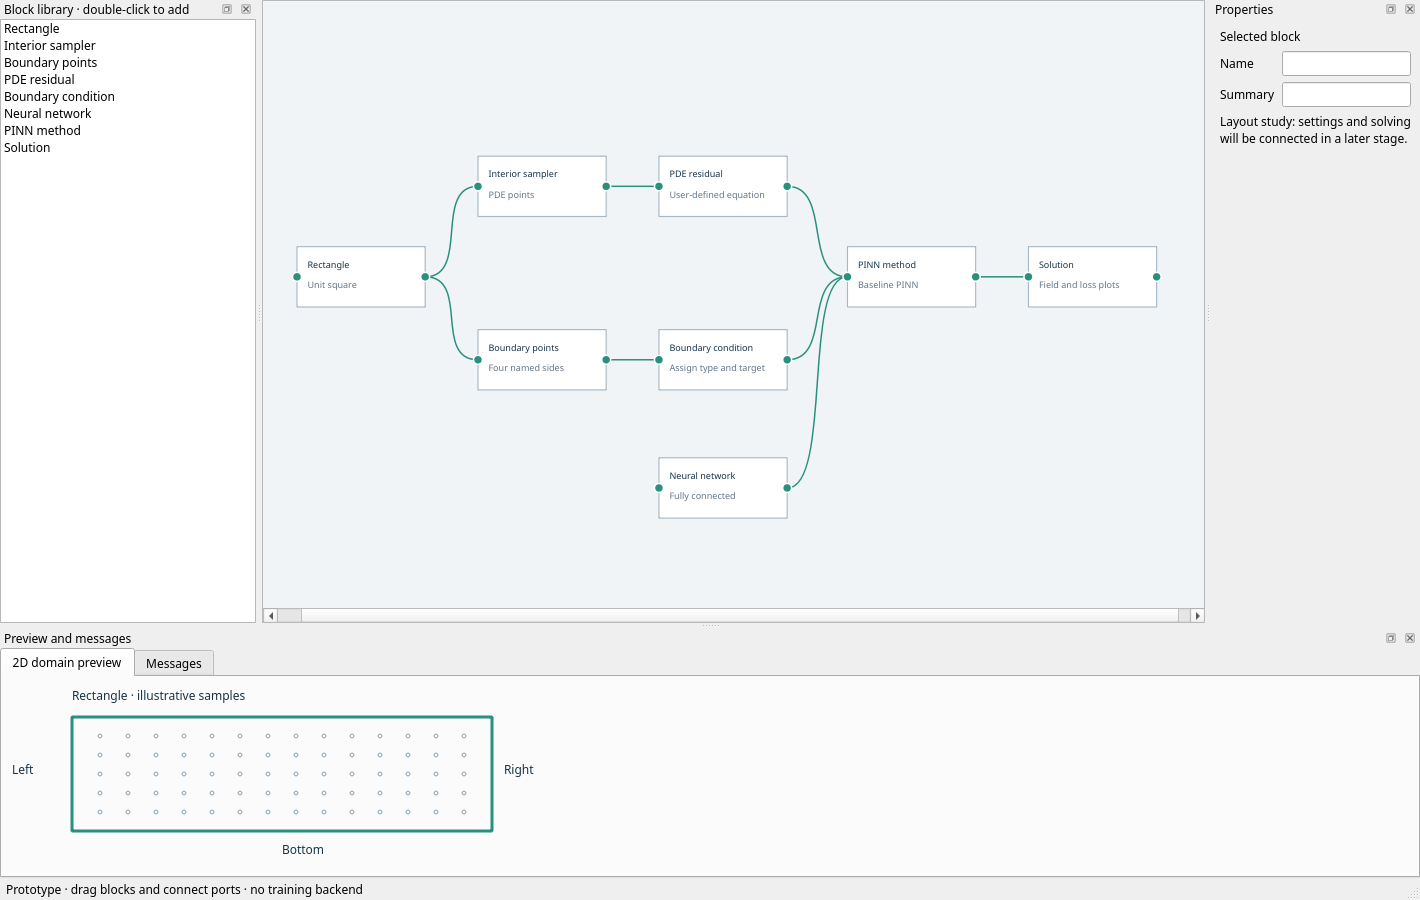
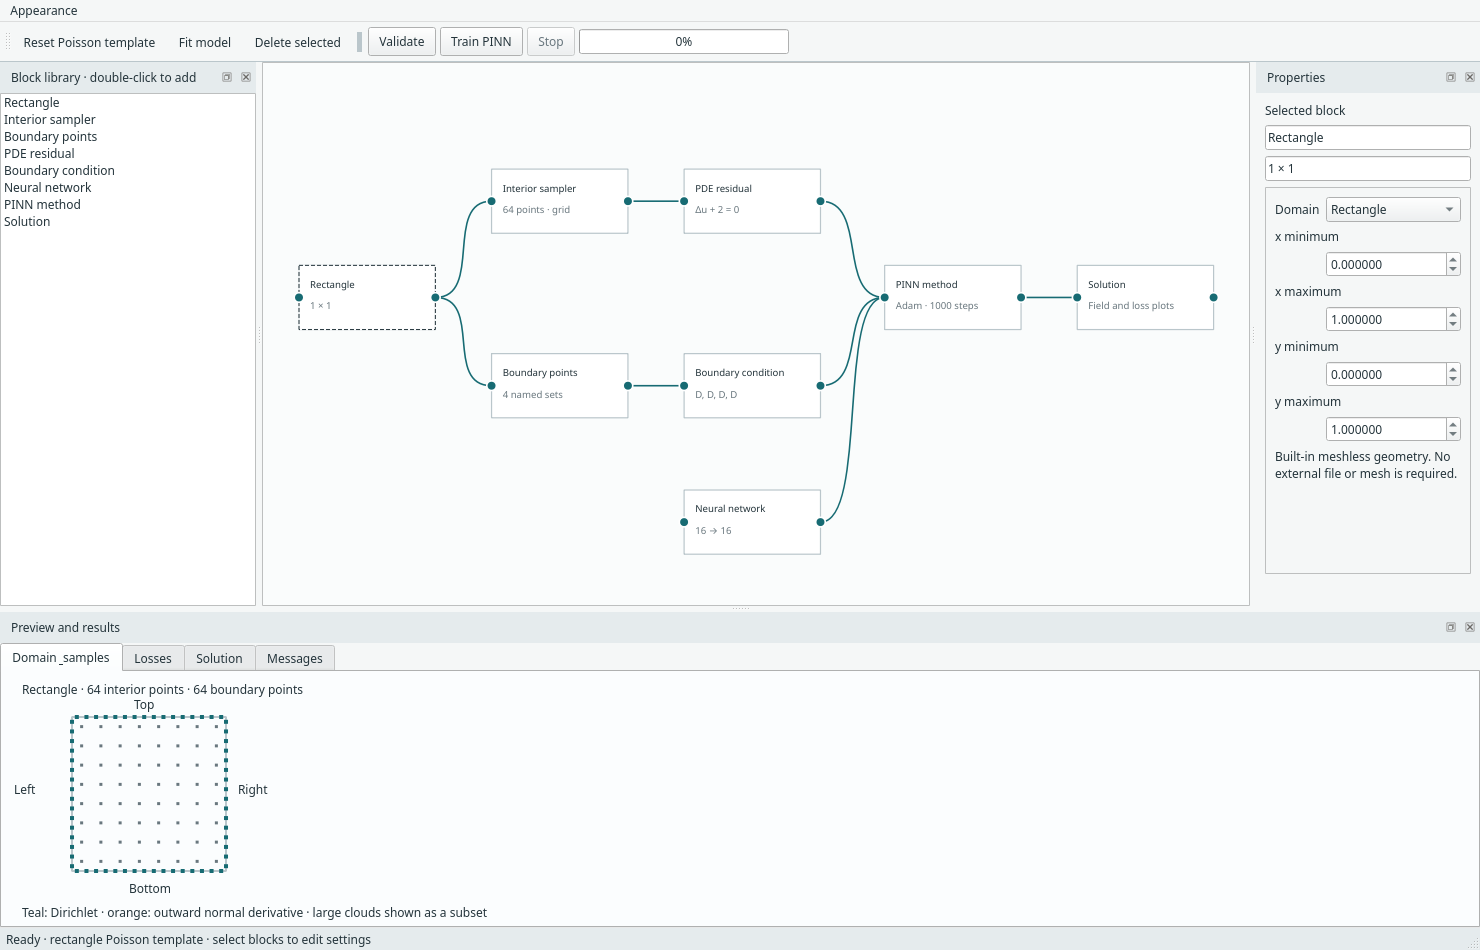
Harden UI lifecycle and capture the live Poisson workflow

diff --git a/margam/ui/app.py b/margam/ui/app.py
@@ -6,7 +6,8 @@ from ..components.sampling import SAMPLERS
 from .plots import DomainPreview, CurvePlot, SolutionView
 from .training import TrainingWorker
 from .theme import colors, configure_theme
-from PySide6.QtCore import Qt, QPointF, QTimer, Signal
+from PySide6.QtCore import Qt, QPointF, QTimer, Signal, Slot
+from shiboken6 import isValid
 from PySide6.QtGui import QColor, QPainter, QPainterPath, QPen
 from PySide6.QtWidgets import (
     QApplication, QMainWindow, QDockWidget, QListWidget, QGraphicsView,
@@ -273,7 +274,7 @@ class Window(QMainWindow):
         if not self.is_running():self.scene.delete_selection()
 
     def is_running(self):
-        return self.worker is not None and self.worker.isRunning()
+        return self.worker is not None
 
     def graph_changed(self):
         self.result=None;self.history=[];self.solution.clear()
@@ -326,7 +327,10 @@ class Window(QMainWindow):
         self.form.addRow(label,widget)
         return widget
 
+    @Slot()
     def selection_changed(self):
+        if not isValid(self.scene):
+            return
         nodes=[i for i in self.scene.selectedItems() if isinstance(i,Node)]
         node=nodes[0] if nodes else None
         self.name.setText(node.title if node else '')

diff --git a/tests/test_ui.py b/tests/test_ui.py
@@ -20,6 +20,7 @@ w.show()
 app.processEvents()
 assert len(w.scene.wires) == 8
 node = next(i for i in w.scene.items() if isinstance(i, Node))
+w.scene.clearSelection()
 node.setSelected(True)
 app.processEvents()
 assert w.name.text() == node.title
